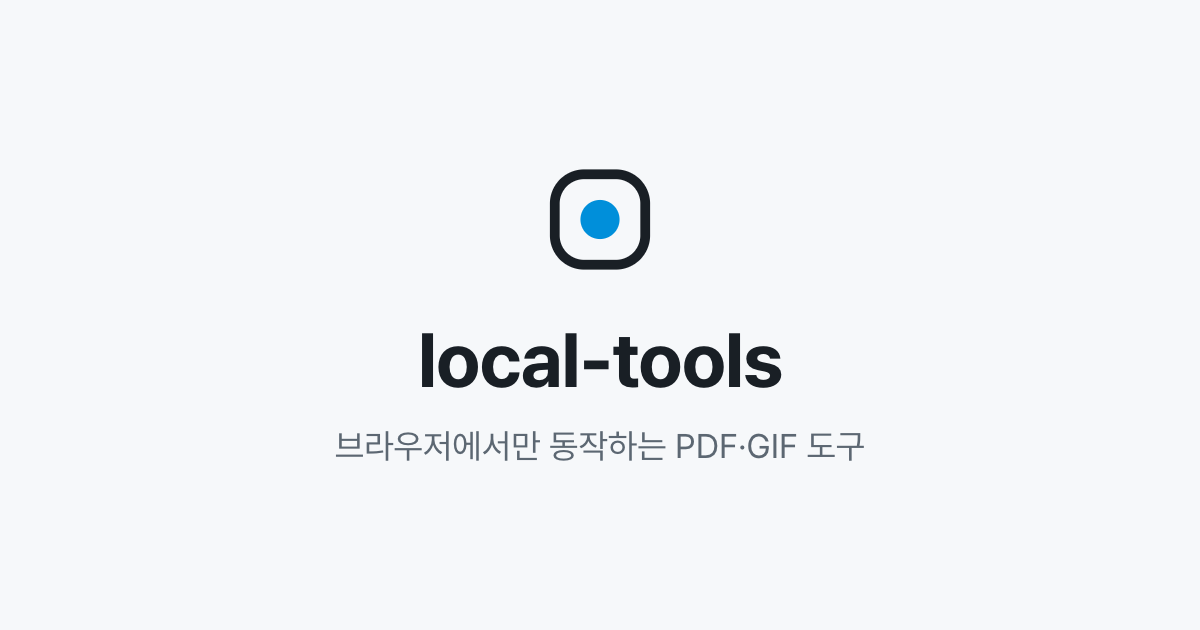
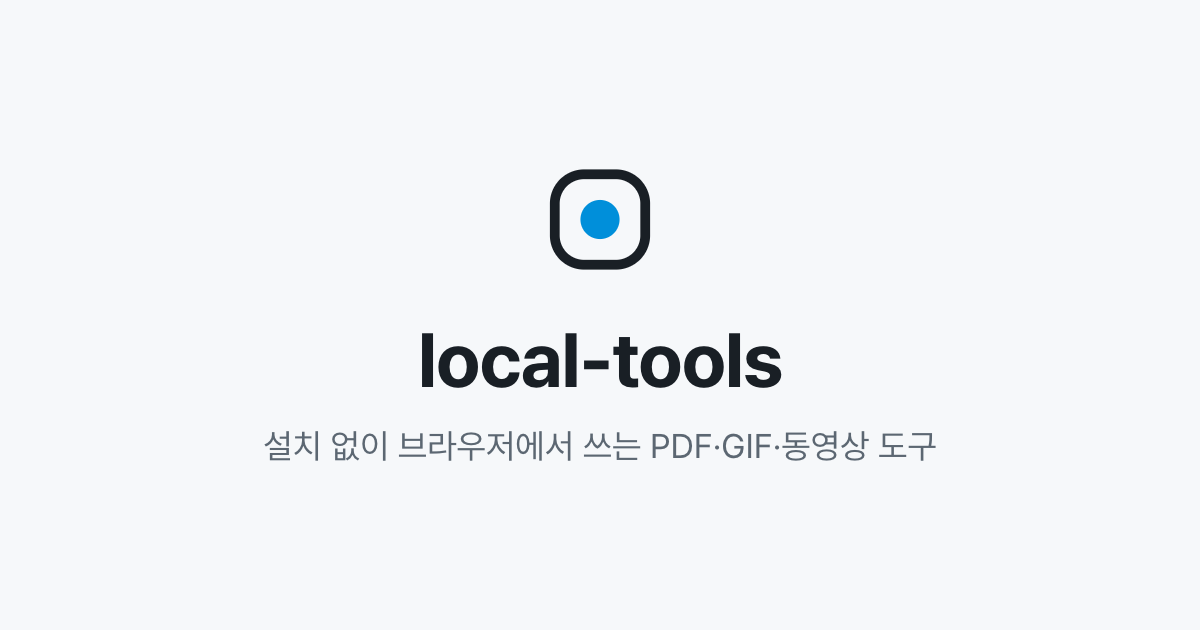
style(site): 랜딩 헤드라인 제거 — 상태등+팩트 라인으로 교체
- 슬로건 대신 브랜드 헤더 + 태그라인 + LED 점·명사형 팩트
  ("업로드 없음 · 광고 없음 · 애널리틱스 없음")로 로컬 처리 표현
- 중복이던 상단 헤더·푸터 정리(GitHub 링크는 히어로 우측로)
- og/home.png 태그라인 갱신

Changed region(s): [[0.2158, 0.6635, 0.7708, 0.754]]

diff --git a/site/index.html b/site/index.html
@@ -108,26 +108,34 @@
         padding: 0 24px;
       }
 
-      header.wrap {
+      main.wrap {
+        flex: 1;
+        padding-bottom: 72px;
+      }
+      .hero {
+        padding: 72px 0 28px;
+        margin-bottom: 32px;
+        border-bottom: 1px solid var(--border);
+      }
+      .hero-top {
         display: flex;
         align-items: center;
         justify-content: space-between;
-        padding-top: 28px;
+        gap: 16px;
       }
-      .brand {
+      h1 {
         display: inline-flex;
         align-items: center;
-        gap: 8px;
-        font-weight: 600;
-        font-size: 15px;
-        letter-spacing: -0.01em;
-        color: inherit;
-        text-decoration: none;
+        gap: 11px;
+        margin: 0;
+        font-size: 30px;
+        font-weight: 700;
+        letter-spacing: -0.02em;
       }
-      .brand svg {
+      h1 svg {
         display: block;
       }
-      .brand .dot {
+      h1 .dot {
         fill: var(--accent);
       }
       .gh {
@@ -140,33 +148,35 @@
         color: var(--text);
         text-decoration: underline;
       }
-
-      main.wrap {
-        flex: 1;
-        padding-bottom: 72px;
+      .tagline {
+        margin: 14px 0 0;
+        font-size: 15px;
+        color: var(--muted);
       }
-      .hero {
-        margin: 76px 0 44px;
+      .facts {
+        display: inline-flex;
+        align-items: center;
+        gap: 8px;
+        margin: 18px 0 0;
+        font-family: var(--mono);
+        font-size: 12px;
+        color: var(--muted);
       }
-      h1 {
-        margin: 0;
-        font-size: clamp(30px, 5.5vw, 44px);
-        font-weight: 700;
-        letter-spacing: -0.03em;
-        line-height: 1.18;
-      }
-      h1 .dot-end {
-        display: inline-block;
-        width: 0.24em;
-        height: 0.24em;
-        margin-left: 0.12em;
+      .led {
+        width: 7px;
+        height: 7px;
         border-radius: 50%;
         background: var(--accent);
+        animation: breathe 2.4s ease-in-out infinite;
       }
-      .hero p {
-        margin: 14px 0 0;
-        font-size: 15.5px;
-        color: var(--muted);
+      @keyframes breathe {
+        0%,
+        100% {
+          opacity: 1;
+        }
+        50% {
+          opacity: 0.45;
+        }
       }
 
       .tools {
@@ -226,20 +236,6 @@
         opacity: 0.85;
       }
 
-      footer.wrap {
-        padding-bottom: 28px;
-        font-size: 12.5px;
-        color: var(--muted);
-      }
-      footer a {
-        color: inherit;
-        text-decoration: none;
-      }
-      footer a:hover {
-        color: var(--text);
-        text-decoration: underline;
-      }
-
       @media (prefers-reduced-motion: reduce) {
         a.tool {
           transition: none;
@@ -247,25 +243,30 @@
         a.tool:hover {
           transform: none;
         }
+        .led {
+          animation: none;
+        }
       }
     </style>
   </head>
   <body>
-    <header class="wrap">
-      <a class="brand" href="./">
-        <svg width="19" height="19" viewBox="0 0 18 18" aria-hidden="true">
-          <rect x="1.6" y="1.6" width="14.8" height="14.8" rx="4.8" fill="none" stroke="currentColor" stroke-width="1.6" />
-          <circle class="dot" cx="9" cy="9" r="3.2" />
-        </svg>
-        local-tools
-      </a>
-      <a class="gh" href="https://github.com/cranemont/local-tools">GitHub</a>
-    </header>
-
     <main class="wrap">
       <section class="hero">
-        <h1>파일은 브라우저 밖으로 나가지 않아요<span class="dot-end" aria-hidden="true"></span></h1>
-        <p>설치 없이 브라우저에서 쓰는 PDF·GIF·동영상 도구</p>
+        <div class="hero-top">
+          <h1>
+            <svg width="30" height="30" viewBox="0 0 18 18" aria-hidden="true">
+              <rect x="1.6" y="1.6" width="14.8" height="14.8" rx="4.8" fill="none" stroke="currentColor" stroke-width="1.6" />
+              <circle class="dot" cx="9" cy="9" r="3.2" />
+            </svg>
+            local-tools
+          </h1>
+          <a class="gh" href="https://github.com/cranemont/local-tools">GitHub</a>
+        </div>
+        <p class="tagline">설치 없이 브라우저에서 쓰는 PDF·GIF·동영상 도구</p>
+        <p class="facts">
+          <span class="led" aria-hidden="true"></span>
+          업로드 없음 · 광고 없음 · 애널리틱스 없음
+        </p>
       </section>
 
       <nav class="tools" aria-label="도구">
@@ -301,9 +302,5 @@
         </a>
       </nav>
     </main>
-
-    <footer class="wrap">
-      <a href="https://github.com/cranemont/local-tools">github.com/cranemont/local-tools</a>
-    </footer>
   </body>
 </html>
